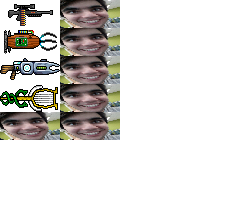
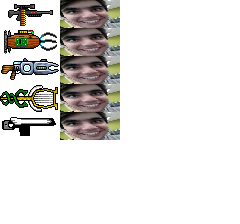
fixed some gun bugs

Changed region(s): [[0.0, 0.5, 0.2625, 0.625], [0.175, 0.2812, 0.2625, 0.3438], [0.0, 0.2812, 0.0583, 0.3438]]

diff --git a/src/server/Game/Entity/Loot/Weapons/BIGMotorizer.js b/src/server/Game/Entity/Loot/Weapons/BIGMotorizer.js
@@ -79,14 +79,14 @@ class StunEffect extends Effect {
 
 class BIGMotorizer extends AttackWeapon {
     constructor(x, y) {
-        super(x, y, "B.I.G Motorizer", "rifle", 0, 10, 0, 50, 15,
+        super(x, y, "Gust Motorizer", "rifle", 0, 10, 0, 50, 15,
             5 * Math.PI / 180,
             Math.PI / 180,
             0.07 * Math.PI / 180,
             0, 6, 0.05);
         this.minFireRate = 100;
         this.configureAttackStats(1.5, 36, 1, this.minFireRate);
-        this.modAbility.configureStats(1, 10);
+        this.modAbility.configureStats(.5, 10);
         this.upgradeStage = 0;
         this.thunderPulsePos = null;
         this.thunderPulse = new HitScanner([]);
@@ -105,44 +105,26 @@ class BIGMotorizer extends AttackWeapon {
 
     onModActivation(entityManager, deltaTime) {
         super.onModActivation(entityManager, deltaTime);
+    }
+
+    onModBuffs(entityManager, deltaTime) {
+        super.onModBuffs(entityManager, deltaTime);
+        this.canFire = false;
+    }
+
+    onModDeactivation(entityManager, deltaTime) {
+        super.onModDeactivation(entityManager, deltaTime);
         let end = {};
         end.x = this.center.x + Math.cos(this.fireAngle) * this.thunderPulseRange;
         end.y = this.center.y + Math.sin(this.fireAngle) * this.thunderPulseRange;
         this.thunderPulse.scan(this.center, end, entityManager, entityManager.tileMap);
         this.thunderPulsePos = end;
-    }
-
-    onModBuffs(entityManager, deltaTime) {
-        super.onModBuffs(entityManager, deltaTime);
-        if (this.upgradeStage < 2) {
-            this.canFire = false;
-        }
-    }
-
-    onModDeactivation(entityManager, deltaTime) {
-        super.onModDeactivation(entityManager, deltaTime);
-        if (this.upgradeStage < 2) {
-            this.canFire = true;
-        }
+        this.canFire = true;
         this.thunderPulsePos = null;
     }
 
     onSuperActivation(entityManager, deltaTime) {
-        this.upgradeStage++;
-        if (this.upgradeStage >= 4) {
-            this.currentAmmo = this.maxAmmo;
-            this.reloading = false;
-            this.currentReloadTime = 0;
-            this.canFire = true;
-            return;
-        }
-        if (this.upgradeStage === 1) {
-            this.firerer.maxChargeTime = 0;
-            this.firerer.maxBurstCount = 0;
-        }
-        if (this.upgradeStage === 3) {
-            this.firerer.recoil = 0;
-        }
+
     }
 
     fire(player, entityManager, deltaTime, angle) {
@@ -161,9 +143,6 @@ class BIGMotorizer extends AttackWeapon {
         super.updateWhenEquipped(player, entityManager, deltaTime);
         if (entityManager.getEntity(this.playerID)) {
             this.fireAngle = entityManager.getEntity(this.playerID).input.mouseData.angleCenter;
-        }
-        if (!this.holdingDownFireButton) {
-            this.fireRate = this.minFireRate;
         }
     }
 

diff --git a/src/server/Game/Entity/Loot/Weapons/Base/WeaponItem.js b/src/server/Game/Entity/Loot/Weapons/Base/WeaponItem.js
@@ -9,6 +9,8 @@ class WeaponItem extends Loot {
         this.playerID = null;
         this.displayName = displayName;
         this.weaponClass = weaponClass;
+        this.dropped = false;
+
         // All possible weapon classes:
         // pistol, rifle
 
@@ -16,9 +18,11 @@ class WeaponItem extends Loot {
             "displayName",
             "weaponClass",
         ]);
+
         this.addDynamicSnapShotData([
             "equippedToPlayer",
             "playerID",
+            "dropped",
         ]);
     }
 
@@ -32,6 +36,7 @@ class WeaponItem extends Loot {
         if (!this.equippedToPlayer) {
             // Update the world item behaviour when not equipped to player.
             super.update(entityManager, deltaTime);
+            this.dropped = false;
         } else {
             if (this.playerID) {
                 // If the player disconnects (or is removed from game world)
@@ -89,6 +94,7 @@ class WeaponItem extends Loot {
             this.vel.x = WeaponItem.DROP_SPEED * player.input.mouseData.cosCenter;
             this.vel.y = WeaponItem.DROP_SPEED * player.input.mouseData.sinCenter;
             this.onDrop(player, entityManager, deltaTime);
+            this.dropped = true;
         }
     }
 

diff --git a/src/server/Game/Entity/Loot/Weapons/Base/AttackWeapon.js b/src/server/Game/Entity/Loot/Weapons/Base/AttackWeapon.js
@@ -125,9 +125,13 @@ class AttackWeapon extends WeaponItem {
     onDrop(player, entityManager, deltaTime) {
         if (this.modAbility.active) {
             this.modAbility.deActivate(this, entityManager, deltaTime);
+        }
+        if (this.superAbility.active) {
             this.superAbility.deActivate(this, entityManager, deltaTime);
         }
+        this.firerer.reset();
         this.currentReloadTime = 0;
+        this.currentFireTime = 0;
         this.reloading = false;
         this.firing = false;
     }

diff --git a/src/client/js/Game/Entity/Weapons/CWeapon.js b/src/client/js/Game/Entity/Weapons/CWeapon.js
@@ -12,10 +12,18 @@ export default class CWeapon extends CEntity {
 
     }
 
+    onDrop(client, deltaTime) {
+
+    }
+
     update(deltaTime, client) {
         super.update(deltaTime, client);
         if (this.getRealtimeProperty("firing") && this.getRealtimeProperty("equippedToPlayer")) {
             this.onFire(client, deltaTime);
+        }
+
+        if (this.getRealtimeProperty("dropped")) {
+            this.onDrop(client, deltaTime);
         }
     }
 

diff --git a/src/client/js/Game/Entity/Weapons/CCKER90.js b/src/client/js/Game/Entity/Weapons/CCKER90.js
@@ -11,12 +11,13 @@ class CCKER90 extends CWeapon {
             x: 0,
             y: 0,
         };
-        this.prevFrom = {
-            x: 0,
-            y: 0,
-        };
     }
 
+    onDrop(client, deltaTime) {
+        super.onDrop(client, deltaTime);
+        this.toLerp.x = 0;
+        this.toLerp.y = 0;
+    }
 
     update(deltaTime, client) {
         super.update(deltaTime, client);

diff --git a/src/server/Game/Entity/Loot/Weapons/Base/Firerer.js b/src/server/Game/Entity/Loot/Weapons/Base/Firerer.js
@@ -131,6 +131,12 @@ class Firerer {
         weapon.spreadAngle = this.currentRecoil + this.defaultSpread;
     }
 
+    reset() {
+        this.currentRecoil = 0;
+        this.burstCount = 0;
+        this.chargeTime = 0;
+    }
+
 }
 
 
